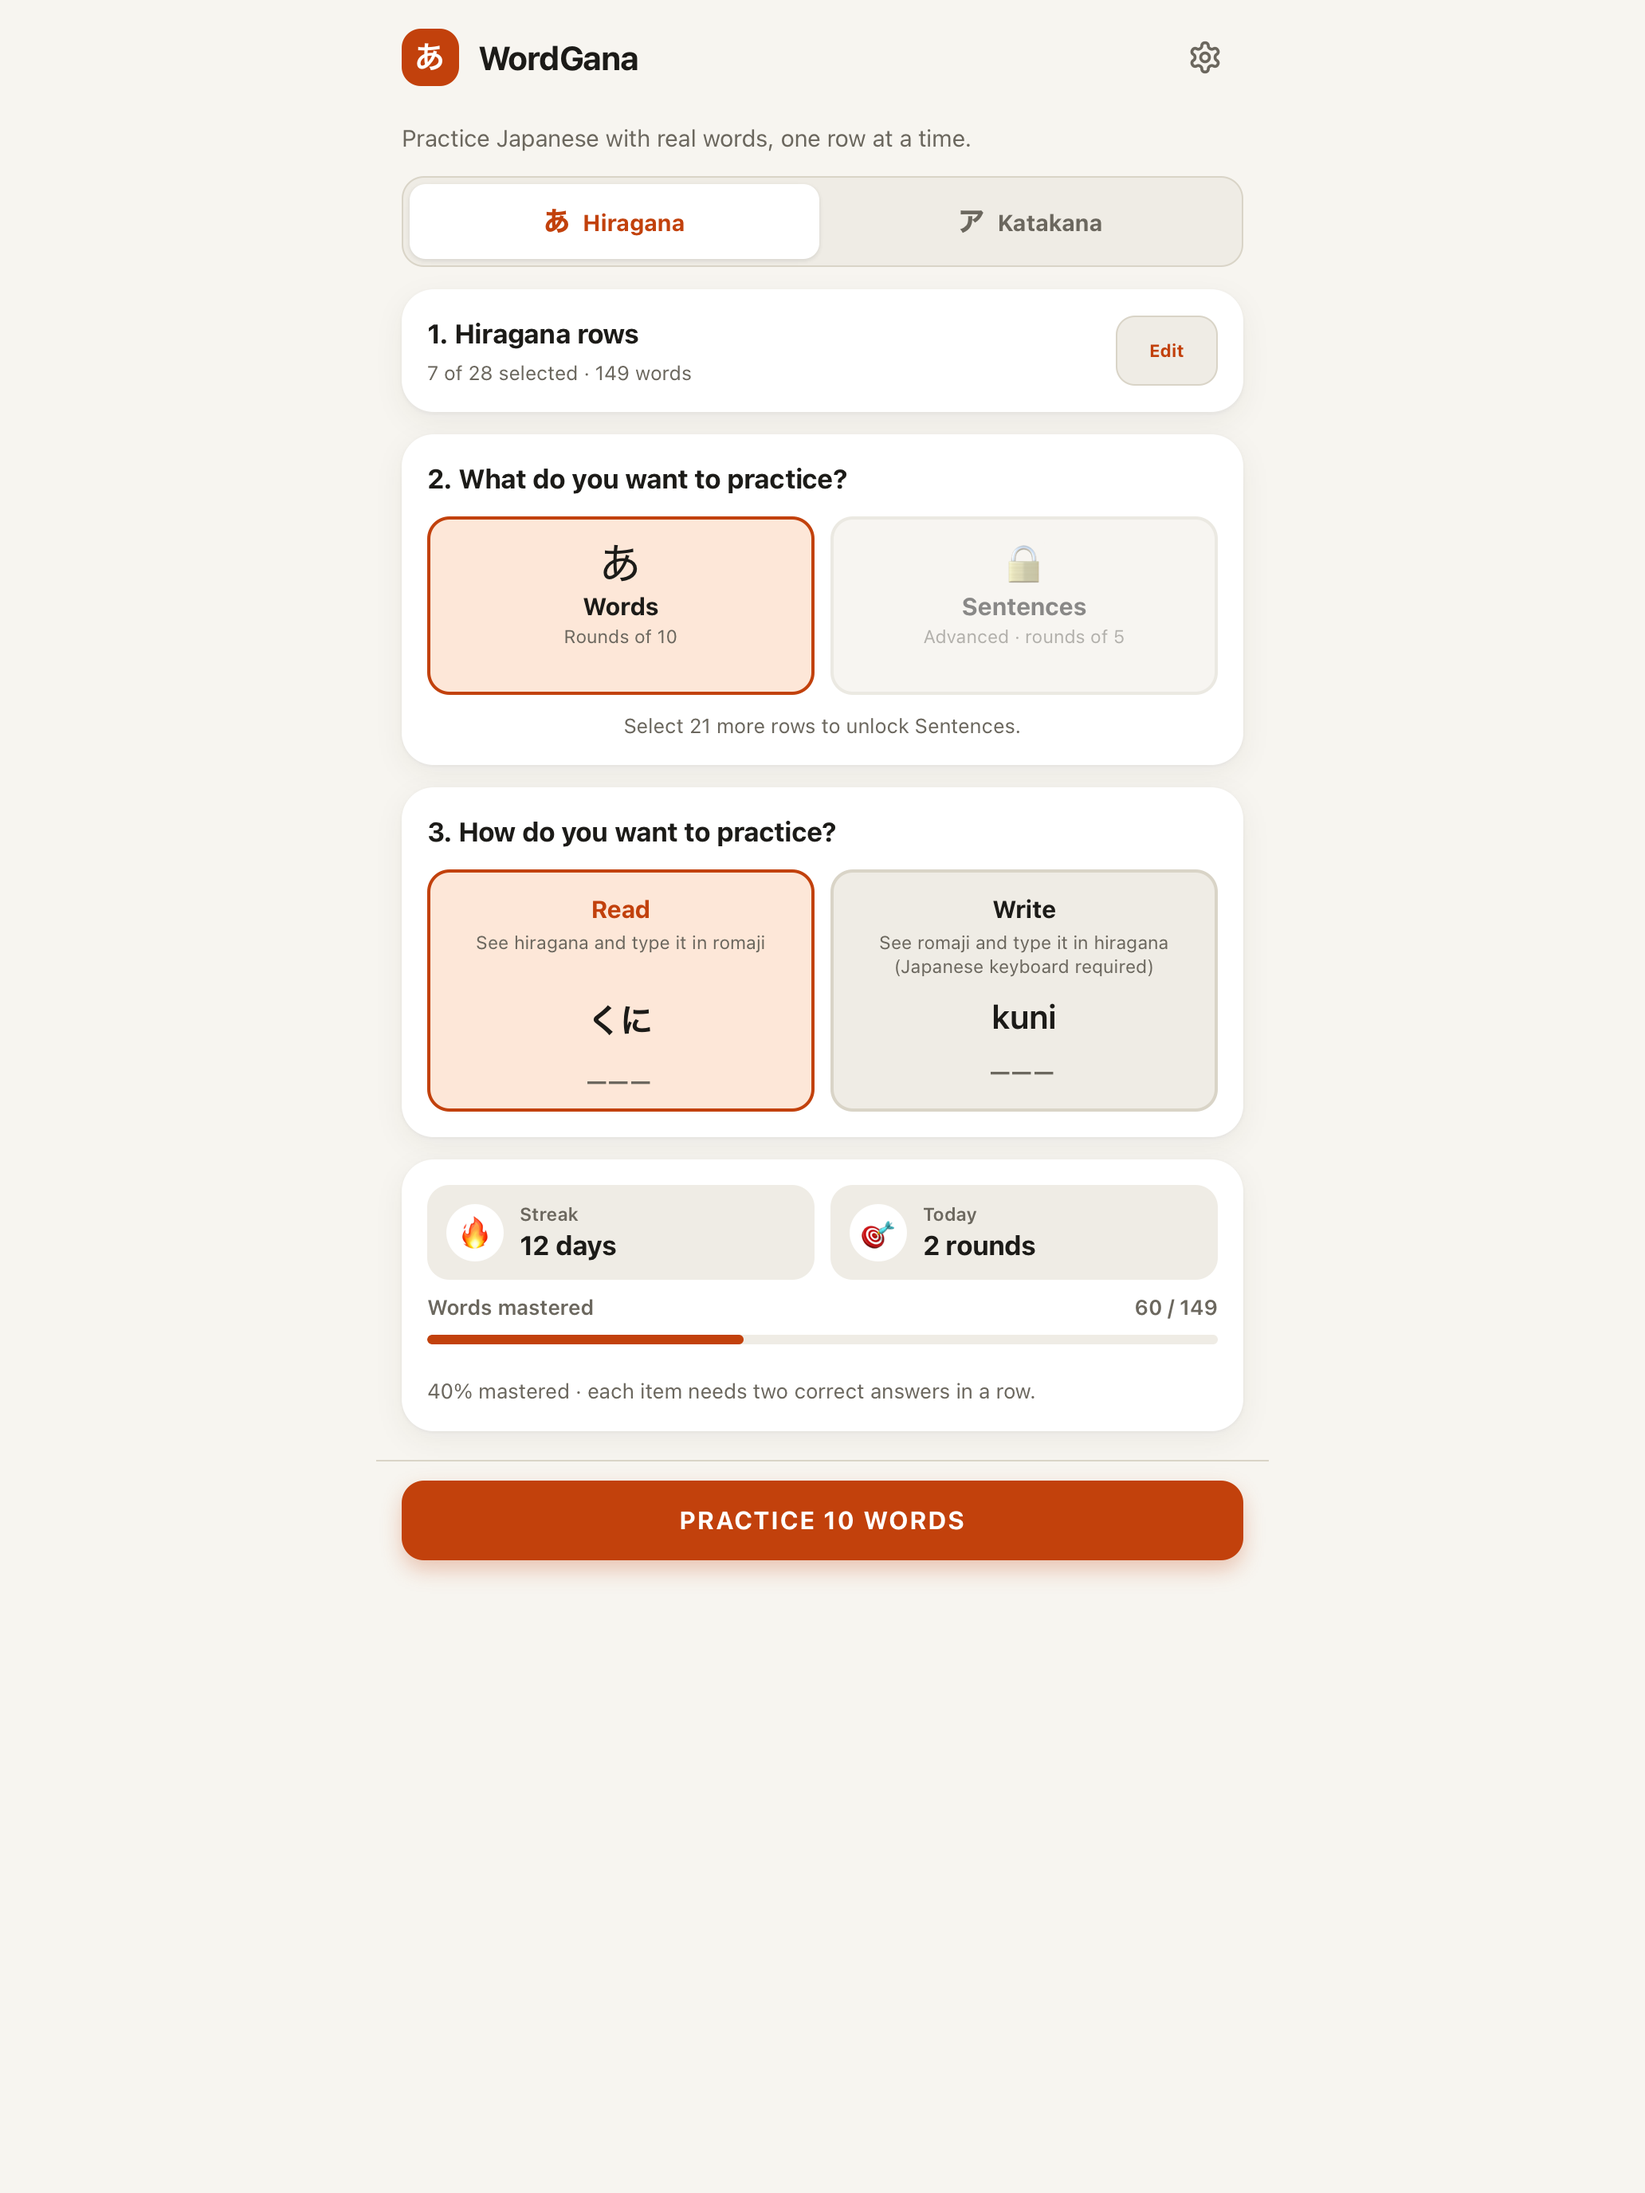
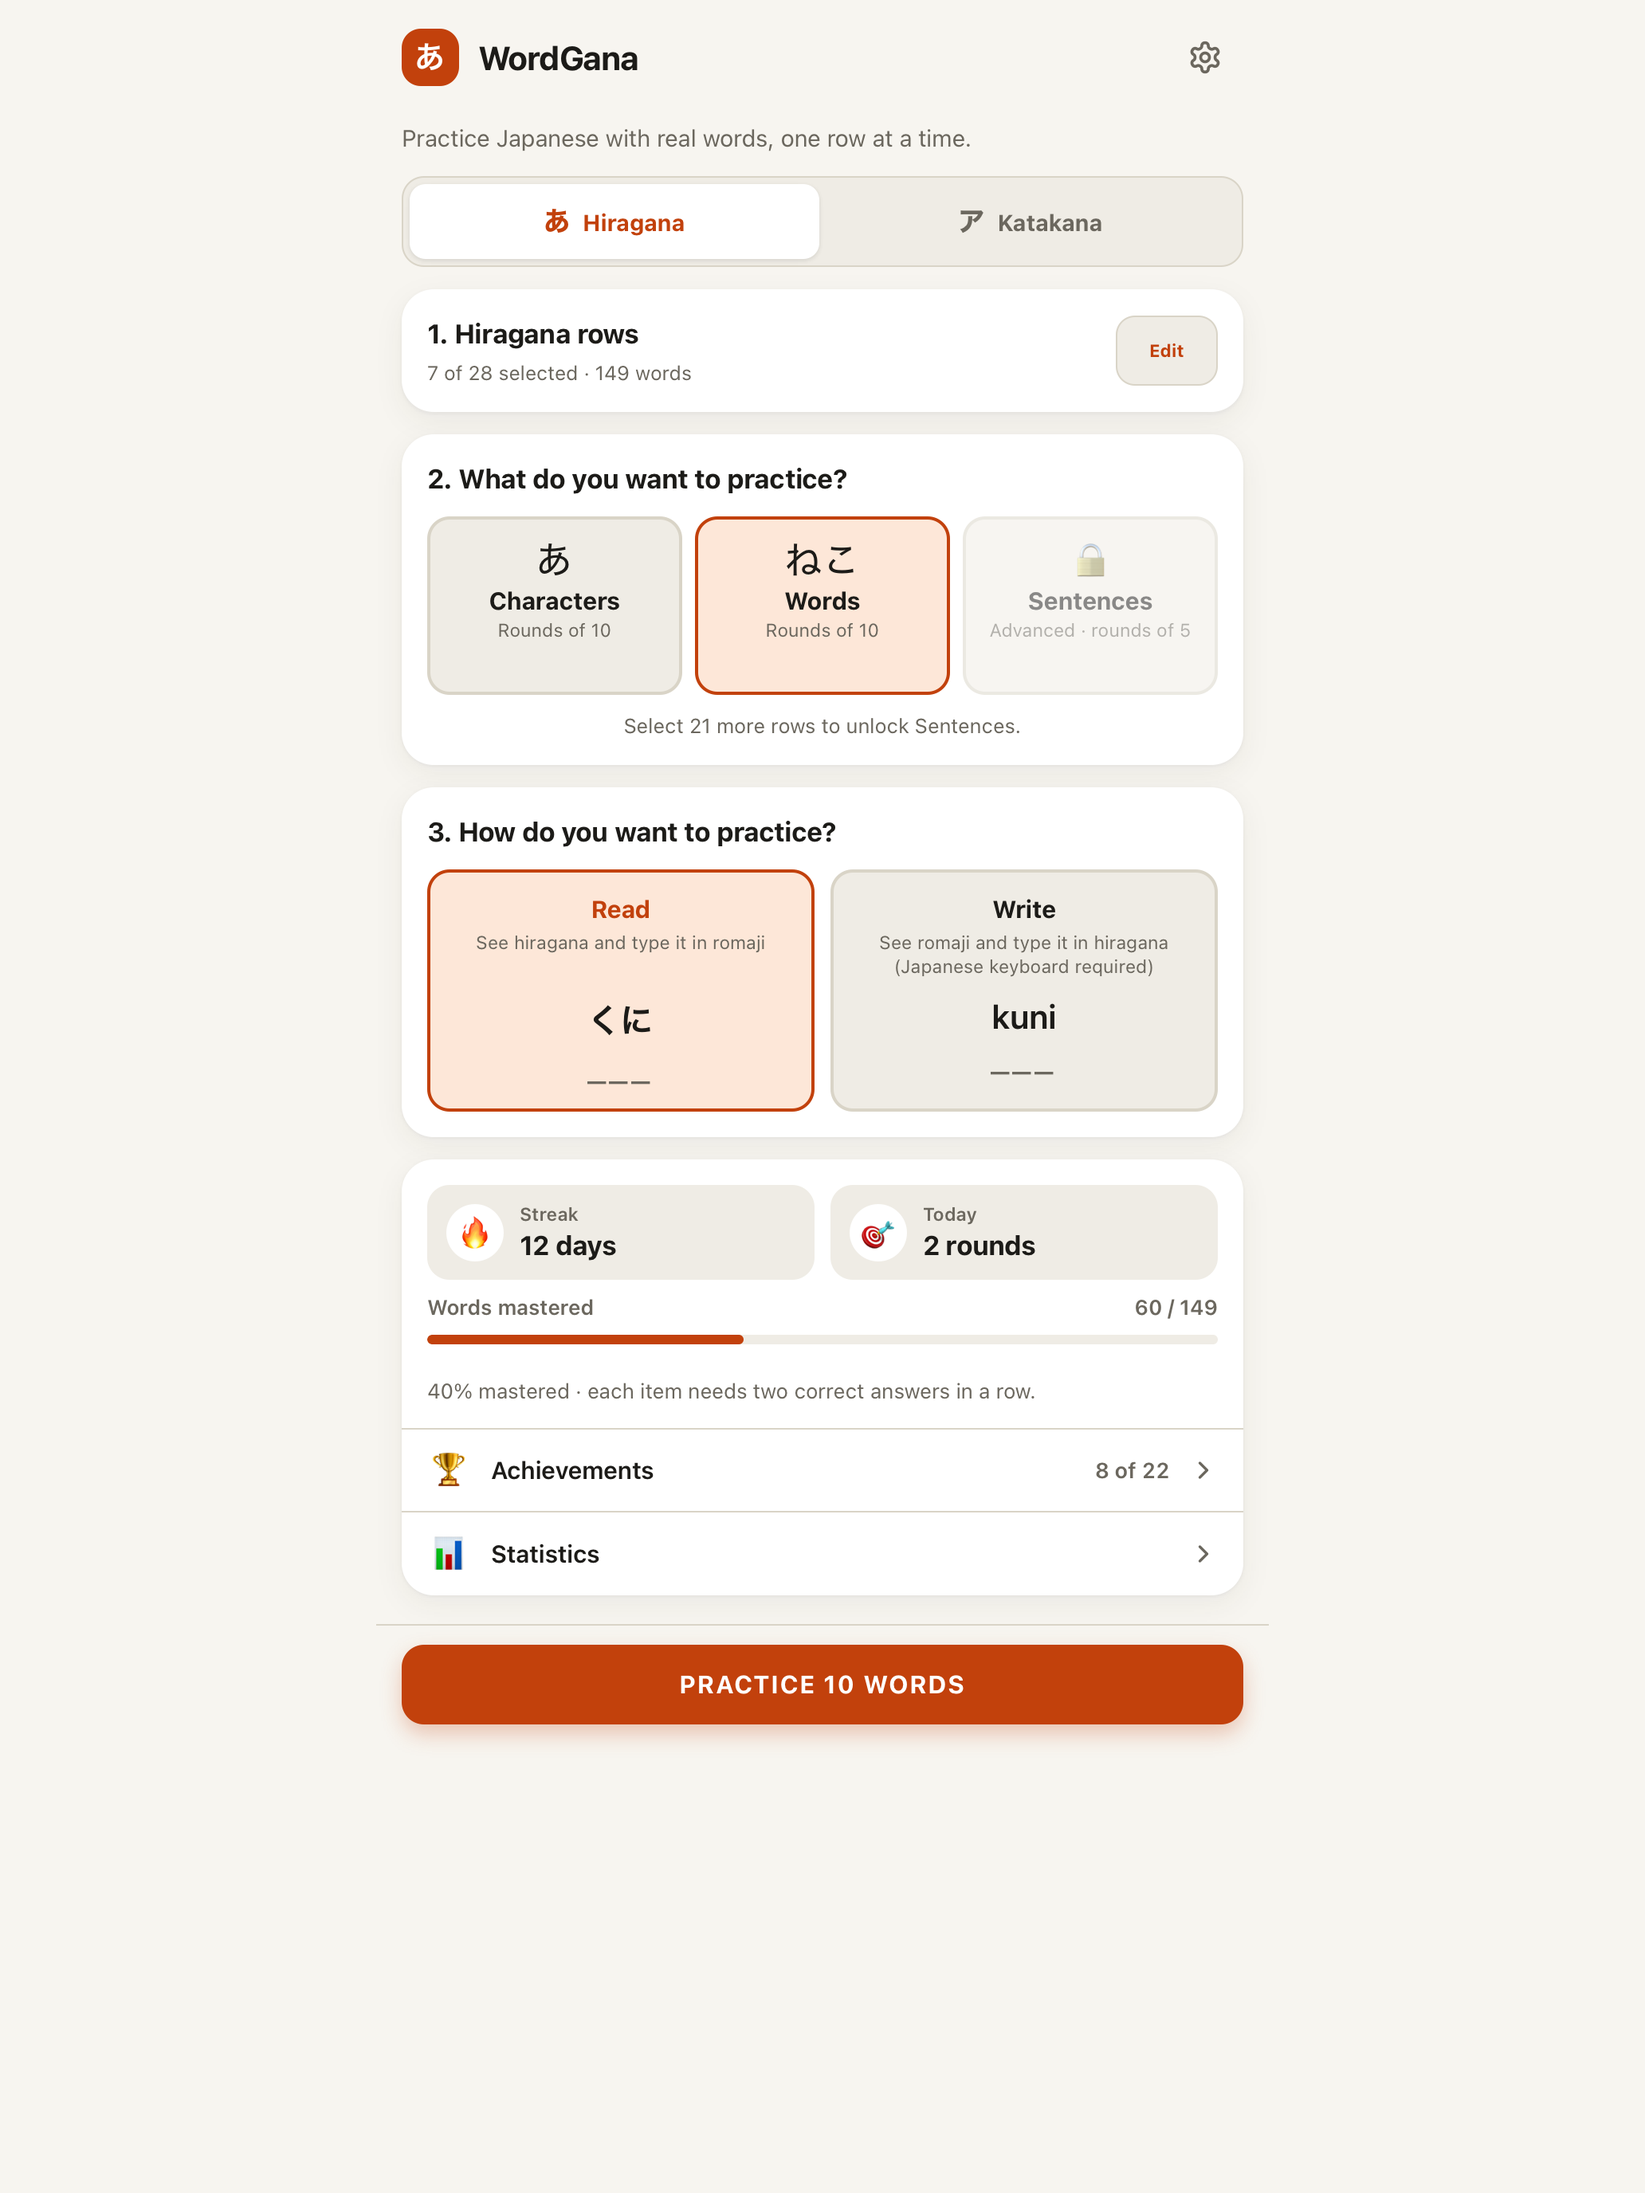
Etapa 17: ficha de la tienda con las funciones nuevas
Descripción en español e inglés, siete capturas por dispositivo (con
logros y estadísticas) y la política de privacidad aclara que los
recordatorios son notificaciones locales.

diff --git a/docs/APP_STORE.md b/docs/APP_STORE.md
@@ -77,21 +77,30 @@ WordGana te ayuda a aprender hiragana y katakana de forma progresiva, con palabr
 
 Marcá las filas del silabario que ya conocés y WordGana arma rondas usando solo palabras formadas con esas letras. A medida que sumás filas, aparecen palabras nuevas.
 
+DE LA LETRA A LA ORACIÓN
+• Letras: practicá los kana sueltos de cada fila nueva.
+• Palabras: cerca de 450 en hiragana y más de 140 en katakana, cada una con su significado.
+• Oraciones: al completar todas las filas se desbloquean rondas de oraciones simples.
+
 DOS MODOS DE PRÁCTICA
-• Leer: ves la palabra en kana y escribís cómo se lee en romaji.
-• Escribir: ves el romaji y escribís la palabra en kana con el teclado japonés.
+• Leer: ves el kana y escribís cómo se lee en romaji.
+• Escribir: ves el romaji y escribís en kana con el teclado japonés.
 
 PENSADA PARA APRENDER
-• Rondas cortas de 10 palabras.
-• Prioriza las palabras en las que más te equivocás.
+• Rondas cortas de 10.
+• Prioriza lo que más te cuesta.
+• Escuchá la pronunciación con la voz japonesa de tu dispositivo.
 • Acepta variantes de romaji como shi/si o tsu/tu.
-• Cada palabra viene con su significado.
-• Al completar todas las filas se desbloquean rondas de oraciones simples.
+• Estadísticas con las letras y palabras que más te cuestan.
+
+MOTIVACIÓN PARA SEGUIR
+• Racha de días y recordatorio diario opcional, solo los días que todavía no practicaste.
+• 22 logros para desbloquear: rondas, racha, vocabulario, rondas perfectas y más.
 
 SIN DISTRACCIONES
 • Funciona sin conexión.
 • Sin cuentas, sin publicidad y sin recolección de datos.
-• Tu progreso y tu racha quedan guardados en tu dispositivo.
+• Tu progreso queda guardado en tu dispositivo.
 
 Disponible en español, inglés, francés y alemán.
 ```
@@ -125,21 +134,30 @@ WordGana helps you learn hiragana and katakana step by step, using real Japanese
 
 Check off the kana rows you already know, and WordGana builds rounds using only words made from those characters. As you add rows, new words unlock.
 
+FROM CHARACTERS TO SENTENCES
+• Characters: practice the individual kana of each new row.
+• Words: nearly 450 in hiragana and over 140 in katakana, each with its meaning.
+• Sentences: complete every row to unlock rounds of simple sentences.
+
 TWO PRACTICE MODES
-• Read: see the word in kana and type its reading in romaji.
-• Write: see the romaji and type the word in kana with the Japanese keyboard.
+• Read: see the kana and type its reading in romaji.
+• Write: see the romaji and type it in kana with the Japanese keyboard.
 
 BUILT FOR LEARNING
-• Short rounds of 10 words.
-• Words you miss come back more often.
+• Short rounds of 10.
+• What you miss comes back more often.
+• Hear the pronunciation with your device's Japanese voice.
 • Accepts romaji variants like shi/si and tsu/tu.
-• Every word comes with its meaning.
-• Complete every row to unlock rounds of simple sentences.
+• Statistics show the characters and words you find hardest.
+
+STAY MOTIVATED
+• Daily streak and an optional reminder, only on days you haven't practiced yet.
+• 22 achievements to unlock: rounds, streaks, vocabulary, perfect rounds and more.
 
 NO DISTRACTIONS
 • Works offline.
 • No accounts, no ads, no data collection.
-• Your progress and streak are saved on your device.
+• Your progress is saved on your device.
 
 Available in English, Spanish, French and German.
 ```
@@ -158,12 +176,12 @@ Se cargan por tamaño de pantalla. Si subís el tamaño más grande, Apple lo re
 | iPhone 6,9" (por ejemplo, iPhone 17 Pro Max) | 1320 × 2868 | Sí |
 | iPad 13" (por ejemplo, iPad Pro 13") | 2064 × 2752 | Sí, porque la app también es para iPad |
 
-Cargá entre 3 y 10 capturas por dispositivo. Por ejemplo: elegir filas, elegir modo, practicar en Leer,
-practicar en Escribir y resultados.
+Cargá entre 3 y 10 capturas por dispositivo.
 
 Las capturas ya están en `docs/app-store-screenshots/`, en español (`es`) e inglés (`en`), con una
 carpeta para iPhone y otra para iPad. Ya tienen el tamaño correcto. Subí las de cada carpeta en su
-localización y en este orden: inicio, leer, correcto, escribir y resultados.
+localización y en este orden: inicio, leer, correcto (con el botón de audio), escribir, resultados (con un
+logro desbloqueado), logros y estadísticas.
 
 Son de la app real con progreso de ejemplo, renderizadas con WebKit, el mismo motor que usa la app en iOS.
 Si cambiás la interfaz, podés regenerarlas así o sacar nuevas en el simulador de Xcode con **⌘S**.
@@ -197,7 +215,7 @@ la app TestFlight en el iPhone. Sirve para comprobar que la versión que va a la
 1. En la pestaña de la app, abrí la versión 1.0 y en **Build** elegí la que subiste.
 2. En **Información para la revisión**, desmarcá **Inicio de sesión requerido** y agregá esta nota:
    ```
-   No account is required. The app works fully offline. To try it, select one or more kana rows on the home screen, pick Read or Write mode and start a round. Write mode uses the Japanese (Kana) keyboard; Read mode uses the standard keyboard.
+   No account is required. The app works fully offline. To try it, select one or more kana rows on the home screen, pick Read or Write mode and start a round. Write mode uses the Japanese (Kana) keyboard; Read mode uses the standard keyboard. The optional daily reminder (Settings) uses local notifications only; nothing is sent to a server.
    ```
 3. En **Lanzamiento de la versión**, elegí si se publica automáticamente al aprobarse o manualmente.
 4. Tocá **Agregar para revisión** y después **Enviar a revisión de la app**.

diff --git a/docs/PRIVACY.md b/docs/PRIVACY.md
@@ -9,6 +9,8 @@ WordGana no recolecta, envía ni comparte datos personales.
 - No usa publicidad, analíticas ni servicios de terceros.
 - Tu progreso (filas elegidas, modo, estadísticas y racha) se guarda solo en tu dispositivo.
   Si desinstalás la app, esos datos se borran.
+- El recordatorio diario, si lo activás, usa notificaciones locales que programa tu propio dispositivo.
+  No pasa por ningún servidor.
 
 Si esta política cambia, la versión actualizada se publica en esta misma página.
 
@@ -27,6 +29,8 @@ WordGana does not collect, transmit or share any personal data.
 - It uses no advertising, analytics or third-party services.
 - Your progress (selected rows, mode, statistics and streak) is stored only on your device.
   Deleting the app deletes that data.
+- The optional daily reminder uses local notifications scheduled by your own device.
+  It does not go through any server.
 
 If this policy changes, the updated version will be published on this page.
 

diff --git a/docs/PLAN.md b/docs/PLAN.md
@@ -150,7 +150,7 @@ abrir el repo, leer `CLAUDE.md` y continuar desde la primera etapa sin tildar.
 - [x] **Etapa 16 — Logros.** Logros por rondas completadas, palabras aprendidas, racha, rondas perfectas, letras
       dominadas y variedad de práctica. Se evalúan al terminar cada ronda y se celebran en Resultados. Pantalla
       de logros con progreso hacia los bloqueados.
-- [ ] **Etapa 17 — Ficha de la tienda.** Actualizar descripción y capturas de `docs/APP_STORE.md` con las
+- [x] **Etapa 17 — Ficha de la tienda.** Actualizar descripción y capturas de `docs/APP_STORE.md` con las
       funciones nuevas.
 
 ## Verificación
